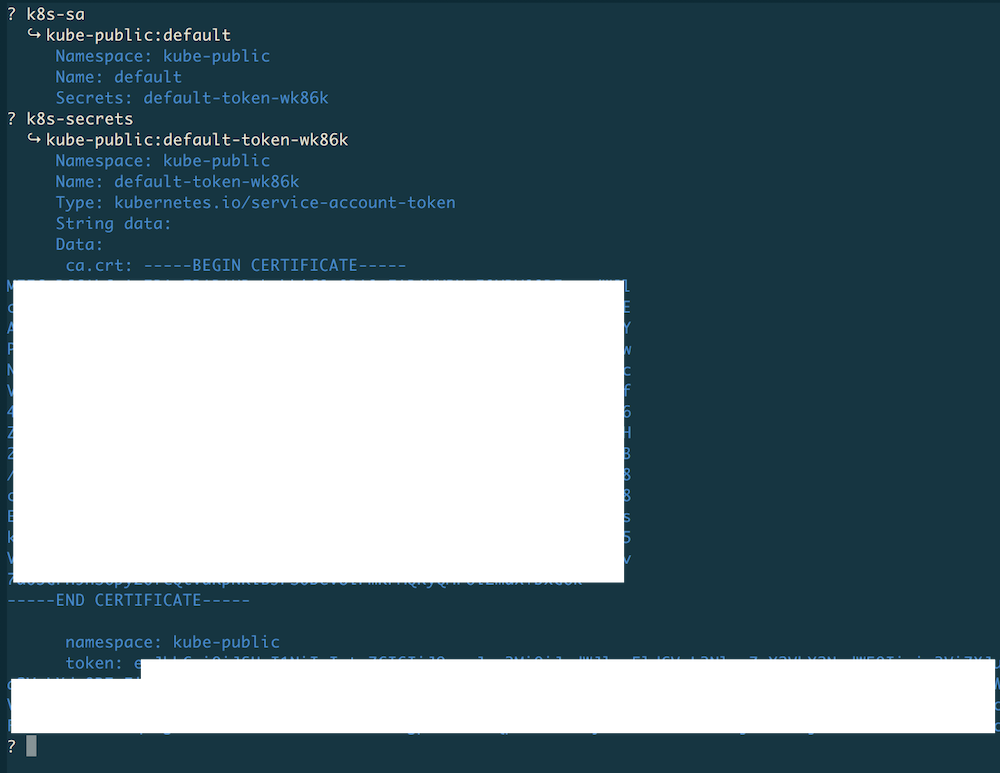
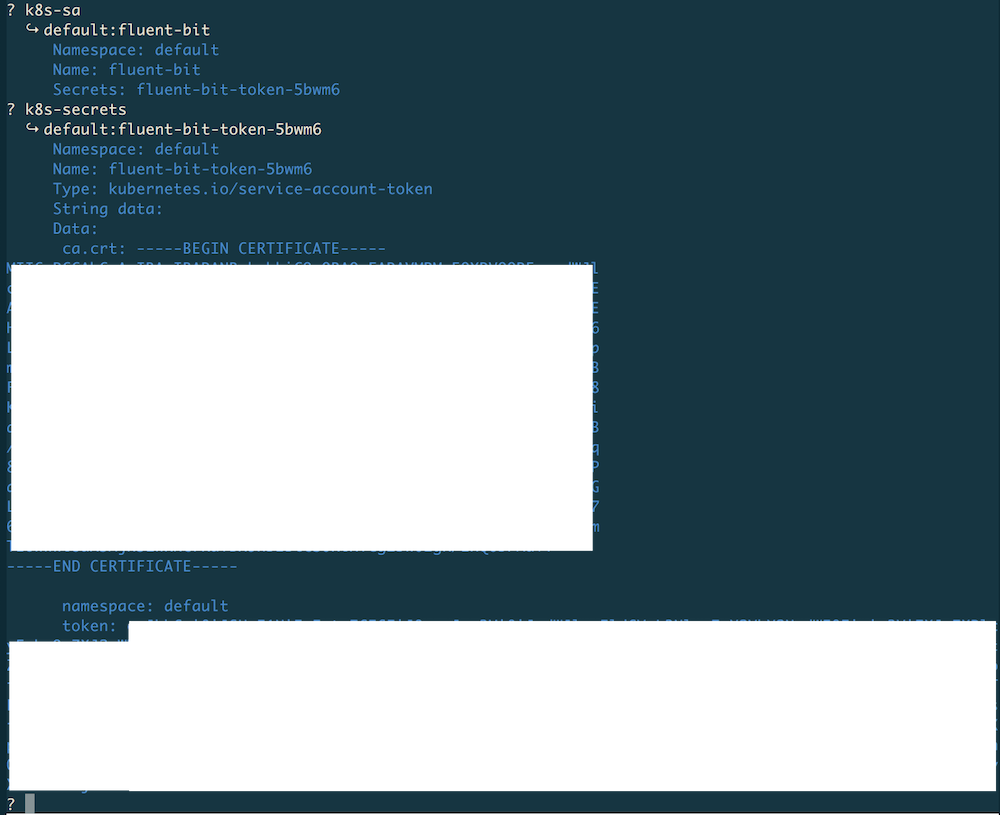
updates docs with pod exploration walkthrough

Changed region(s): [[0.0, 0.0, 1.0, 1.0]]

diff --git a/site/docs/getting-started.md b/site/docs/getting-started.md
@@ -107,10 +107,23 @@ To learn about AWS policies, use the `iam-policies` command.
 
 ![AWS IAM policies](img/w_iam_policies.png)
 
+
+#### Exploring Kubernetes pods
+
+Starting off with your app, you want to explore an Kubernetes pod. For this, use
+the `k8s-pods` command as follows:
+
+![Kubernetes pods](img/w_k8s_pods.png)
+
+Now that we have the pod info, we can continue with the service account we found
+here, in this case `fluent-bit`.
+
 #### Exploring Kubernetes service accounts & secrets
 
 To explore Kubernetes service accounts and their secrets, use the `k8s-sa` and 
-the `k8s-secrets` command, respectively:
+the `k8s-secrets` command, respectively. From the previous step we've gathered
+that for the Fluent Bit pod we're interested in the service account `fluent-bit` 
+so let's look this up along with its secret:
 
 ![Kubernetes service accounts & secrets](img/w_k8s_sa_secret.png)
 
